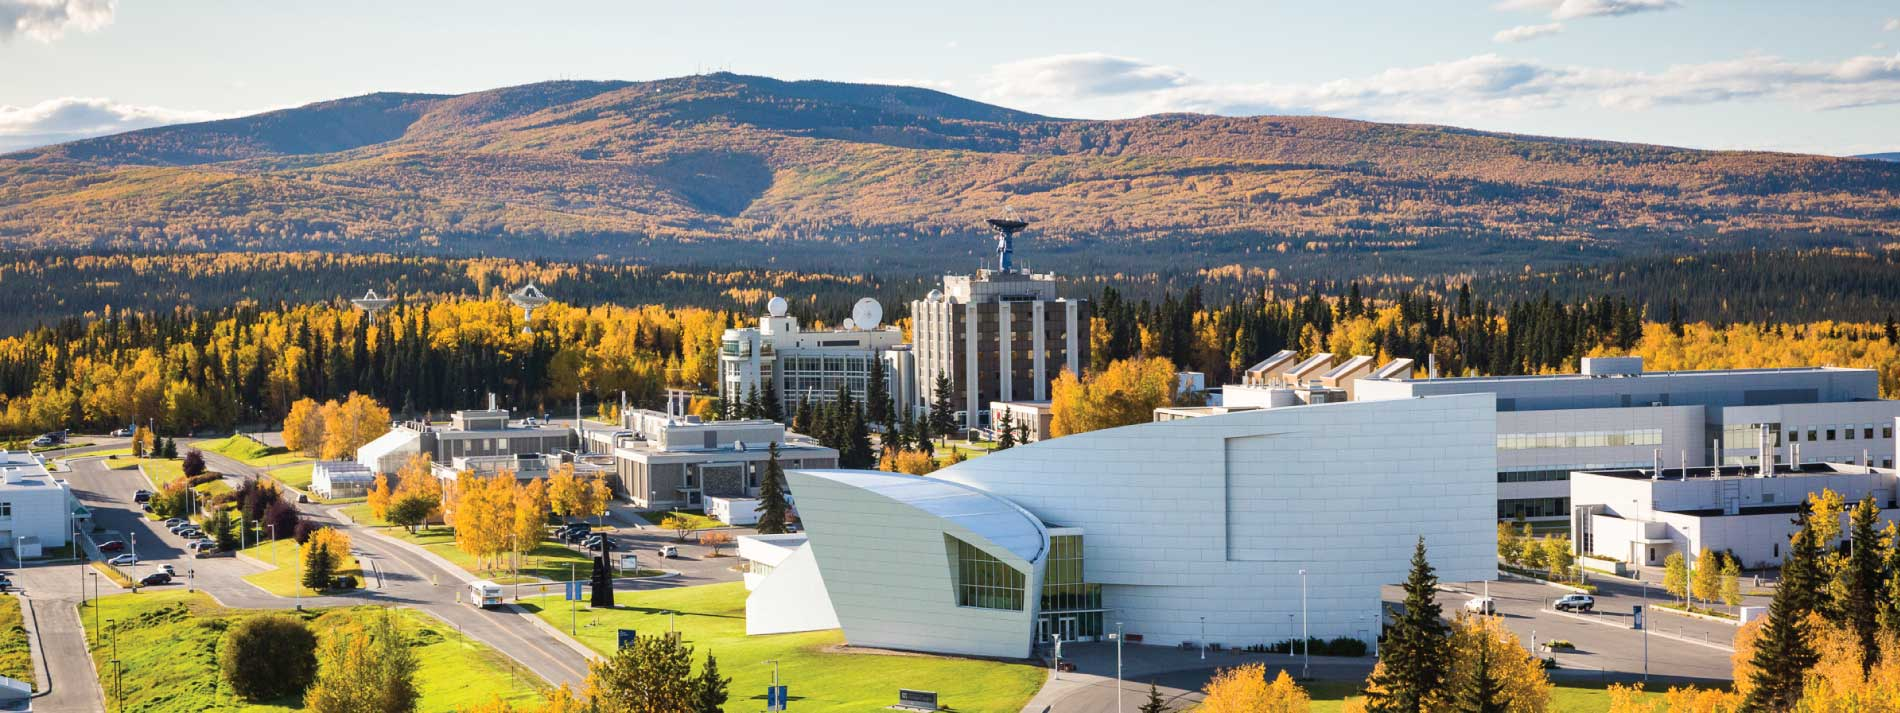
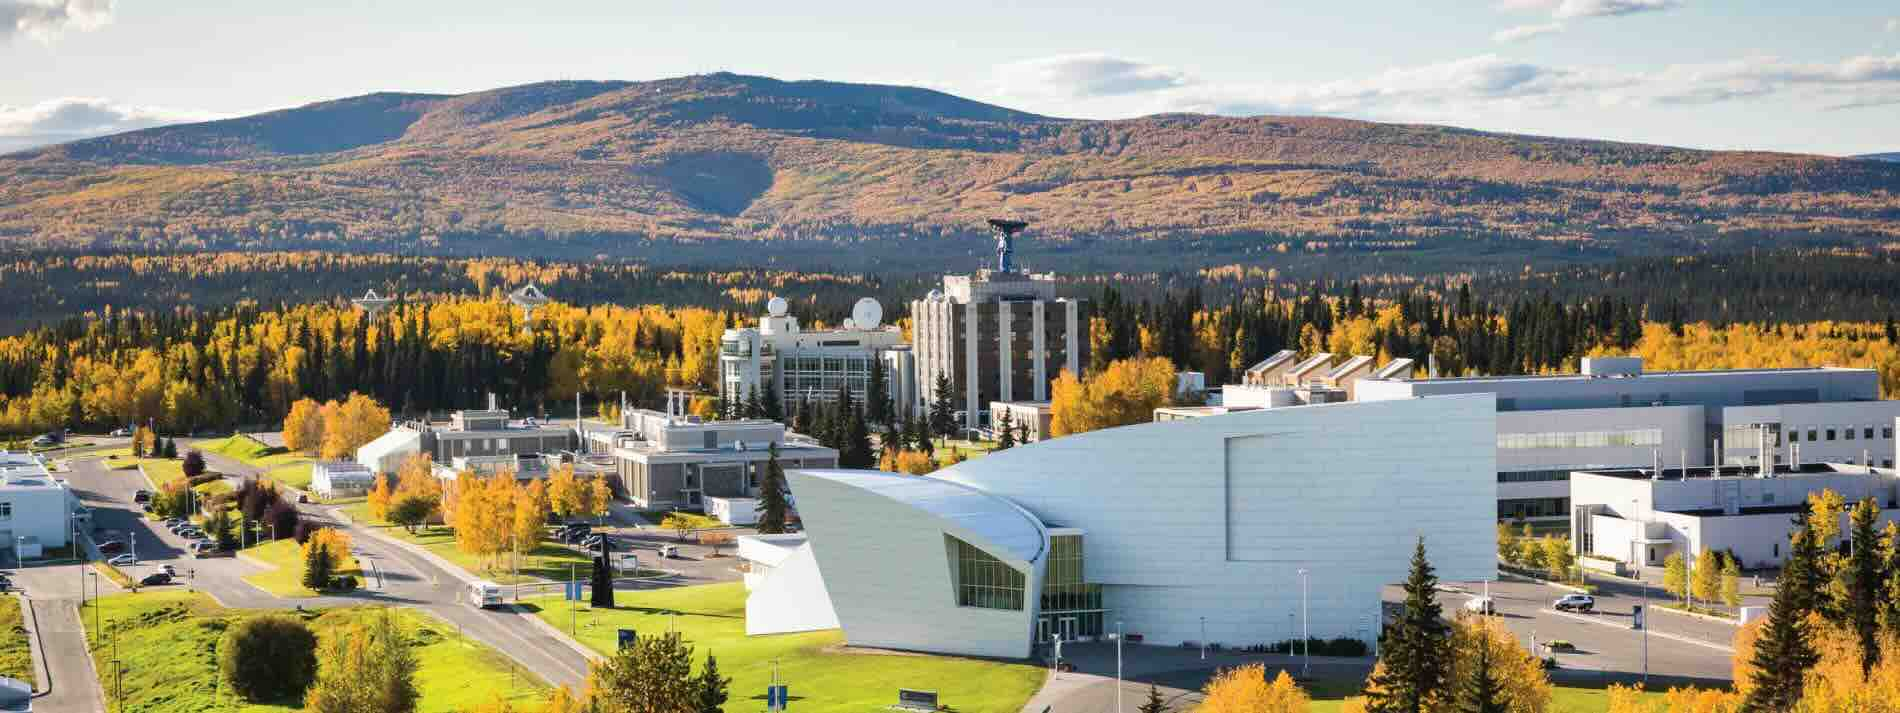
Compress uaf image. Style education section to fit in line with background formatting. Style About section

diff --git a/src/pages/Education.tsx b/src/pages/Education.tsx
@@ -9,15 +9,17 @@ const Eductation: React.FC = () => {
             <div className='background-section-title'>
                 <Typography variant='h4' >Education</Typography>
             </div>
-            <Typography variant="h5">University of Alaska Fairbanks</Typography>
-            <img src='uaf-westridge-aerial.jpg' alt="university-of-alaska-fairbanks-aerial" className='uaf-image'/>
-            <div className="summary-text">
-                <Typography>B.S. Computational Physics ✅</Typography>
-                <Typography>Minor in Mathematics</Typography>
-                <Typography>Data Structures and Algorithms</Typography>
-                <hr className="summary-divider"/>
+            <div className='education-section'>
+                <img src='uaf-westridge-aerial.jpg' alt="university-of-alaska-fairbanks-aerial" className='uaf-image'/>
+                <div className='education-info'>
+                    <Typography variant="h5">University of Alaska Fairbanks</Typography>
+                    <div className="summary-text">
+                        <Typography>B.S. Computational Physics ✅</Typography>
+                        <Typography>Minor in Mathematics</Typography>
+                        <Typography>Data Structures and Algorithms</Typography>
+                    </div>
+                </div>
             </div>
-            <Typography>Test</Typography>
         </div>
     );
 };

diff --git a/src/pages/About.tsx b/src/pages/About.tsx
@@ -29,7 +29,7 @@ const About: React.FC  = () => {
                 <img src='/khanhowe.jpeg' alt='khan-howe' className='profile-image'/>
                 <div className='about-text'>
                     <Typography fontFamily='sans-serif' >
-                        I am a passionate <b>Full-stack engineer</b> based in Tacoma, Washington with 8 years experience in SaaS application and product development. With a proven ability to produce <b>high-quality, test-driven, clean code</b>, I adapt to fit the requirements of many development practices and web-based technologies.
+                        I am a <b>passionate</b> Full-stack Engineer based in Tacoma, Washington with 8 years experience in SaaS application and product development. With a proven ability to produce <b>high-quality, test-driven, clean code</b>, I adapt to fit the requirements of many development practices and web-based technologies.
                     </Typography>
                     <Typography fontFamily='sans-serif'>
                         The way code is written is important to me, and helps me function better as a developer. I have a set of core-values, not just as a developer but as an effective team member and human being.

diff --git a/src/styles/About.css b/src/styles/About.css
@@ -3,6 +3,7 @@
 }
 
 .profile-image {
+    margin: 20px none;
     border-radius: 50%;
     min-height: 10vw;
     max-height: 50vw;
@@ -10,13 +11,13 @@
 }
 
 .about-text {
-    margin-top: 20px;
+    margin-top: 40px;
     min-width: 20vw;
     text-align: left;
 }
 
 .skills {
-    margin-top: 20px;
+    margin-top: 40px;
     padding-top: 10px;
 }
 

diff --git a/src/styles/Education.css b/src/styles/Education.css
@@ -1,5 +1,15 @@
 .education {
-    margin: none 10vw;
+    width: 100%;
+}
+
+.education-section {
+    display: flex;
+    justify-content: space-between;
+    align-items: center;
+}
+
+.education-info {
+    text-align: right;
 }
 
 .uaf-image {
